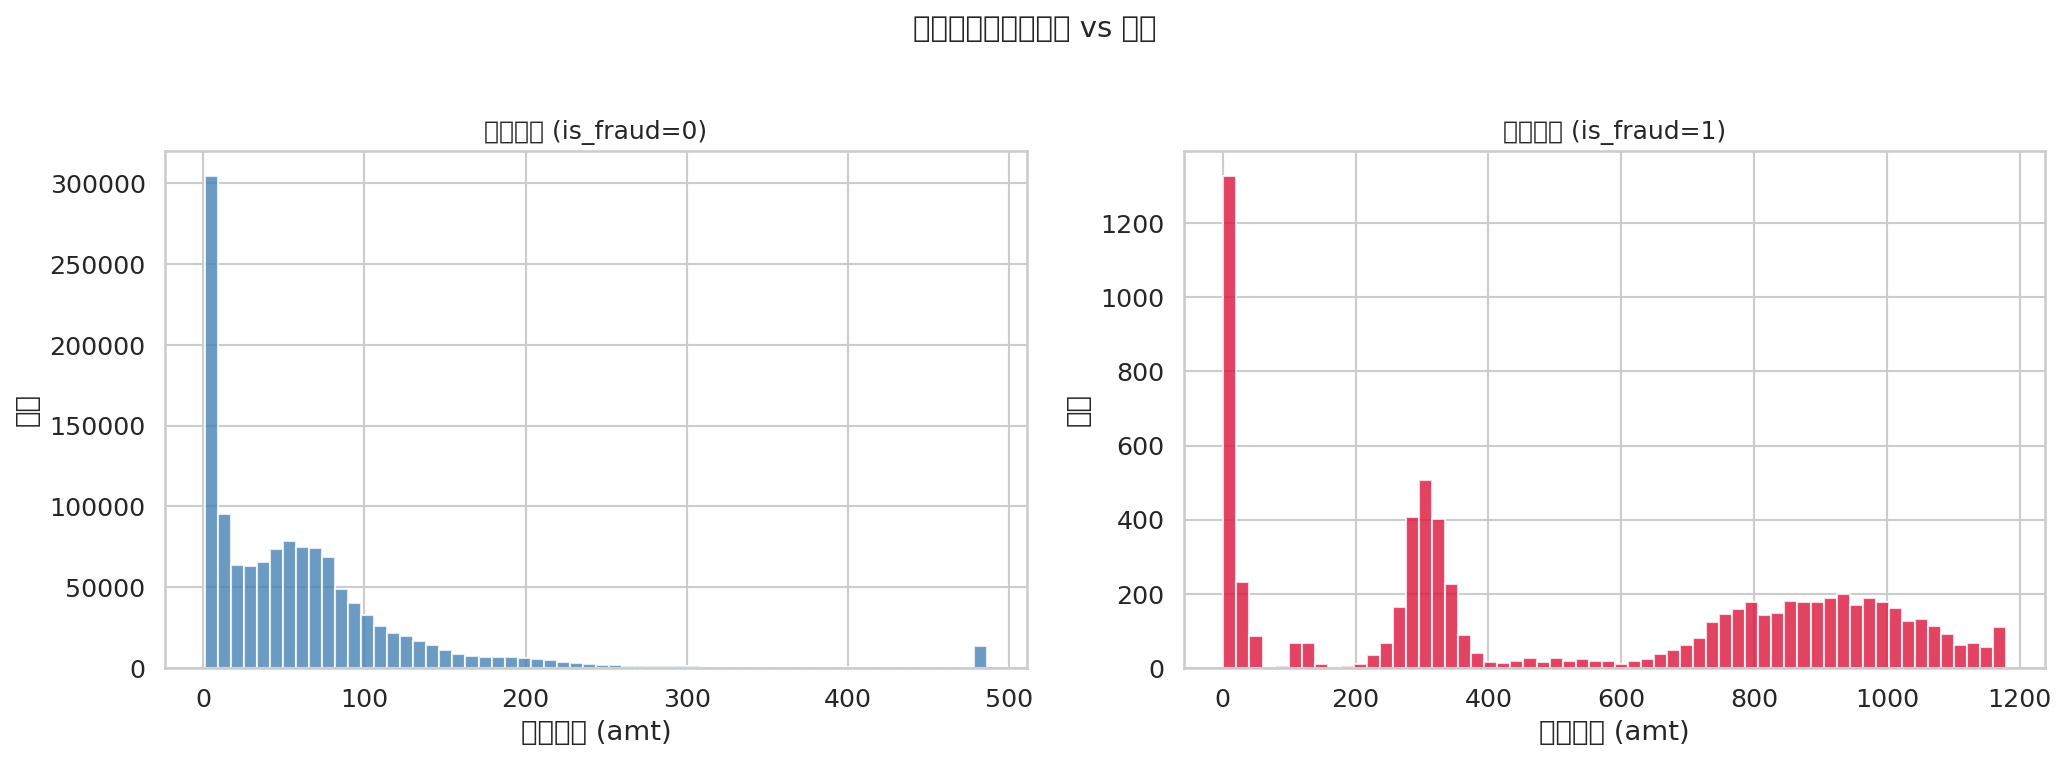
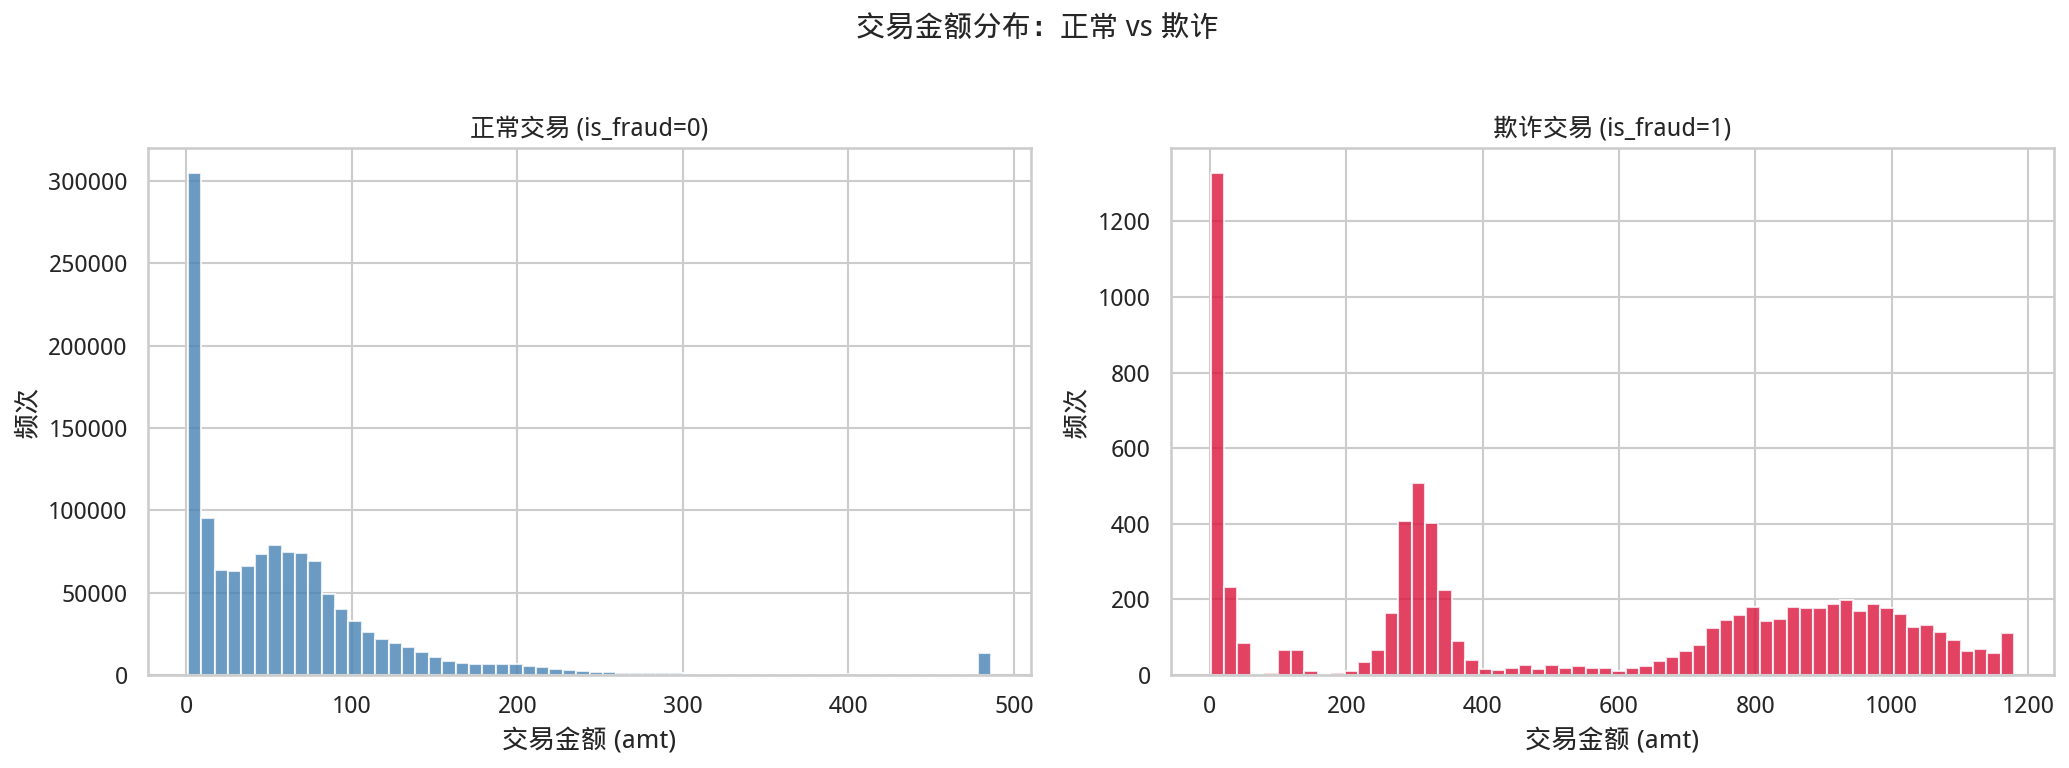
Fix Chinese font rendering in all chart figures
- Add scripts/plot_config.py: shared matplotlib config using WenQuanYi Micro Hei
- Update all 3 scripts to import plot_config before plt/sns
- Regenerate all report figures with correct Chinese text

diff --git a/scripts/plot_config.py b/scripts/plot_config.py
@@ -1,0 +1,33 @@
+"""
+Shared matplotlib/seaborn configuration with Chinese font support.
+
+Usage:
+    import plot_config  # import before any plt/sns calls
+"""
+
+import matplotlib
+matplotlib.use("Agg")
+
+import matplotlib.pyplot as plt
+import matplotlib.font_manager as fm
+
+_CN_FONT = None
+for candidate in ["WenQuanYi Micro Hei", "Droid Sans Fallback",
+                   "Noto Sans CJK SC", "SimHei", "Source Han Sans SC"]:
+    if any(f.name == candidate for f in fm.fontManager.ttflist):
+        _CN_FONT = candidate
+        break
+
+if _CN_FONT:
+    plt.rcParams.update({
+        "font.sans-serif": [_CN_FONT, "DejaVu Sans", "Arial"],
+        "axes.unicode_minus": False,
+    })
+
+import seaborn as sns
+sns.set_theme(style="whitegrid", font_scale=1.05, rc={
+    "font.sans-serif": [_CN_FONT, "DejaVu Sans", "Arial"] if _CN_FONT else ["DejaVu Sans"],
+    "axes.unicode_minus": False,
+})
+
+plt.rcParams.update({"figure.max_open_warning": 0})

diff --git a/scripts/eda_fraud_train.py b/scripts/eda_fraud_train.py
@@ -17,8 +17,10 @@ import warnings
 from datetime import datetime
 from textwrap import dedent
 
-import matplotlib
-matplotlib.use("Agg")
+import sys, os
+sys.path.insert(0, os.path.dirname(__file__))
+import plot_config  # Chinese font support — must be before plt/sns
+
 import matplotlib.pyplot as plt
 import matplotlib.gridspec as gridspec
 import seaborn as sns
@@ -29,8 +31,6 @@ from scipy.cluster.hierarchy import linkage, dendrogram
 from scipy.spatial.distance import squareform
 
 warnings.filterwarnings("ignore")
-sns.set_theme(style="whitegrid", font_scale=1.1)
-plt.rcParams.update({"figure.max_open_warning": 0})
 
 # ---------------------------------------------------------------------------
 # Paths

diff --git a/scripts/prepare_dataset.py b/scripts/prepare_dataset.py
@@ -14,8 +14,10 @@ import os, sys, warnings, json
 from datetime import datetime
 from textwrap import dedent
 
-import matplotlib
-matplotlib.use("Agg")
+import sys
+sys.path.insert(0, os.path.dirname(__file__))
+import plot_config  # Chinese font support — must be before plt/sns
+
 import matplotlib.pyplot as plt
 import seaborn as sns
 import numpy as np
@@ -27,7 +29,6 @@ from sklearn.feature_selection import mutual_info_classif
 from imblearn.over_sampling import SMOTE
 
 warnings.filterwarnings("ignore")
-sns.set_theme(style="whitegrid", font_scale=1.05)
 
 # ---------------------------------------------------------------------------
 # Paths

diff --git a/scripts/train_models.py b/scripts/train_models.py
@@ -10,8 +10,10 @@ Approach:
 
 import os, time, warnings, pickle, json
 from datetime import datetime
-import matplotlib
-matplotlib.use("Agg")
+import sys
+sys.path.insert(0, os.path.dirname(__file__))
+import plot_config  # Chinese font support — must be before plt/sns
+
 import matplotlib.pyplot as plt
 import seaborn as sns
 import numpy as np
@@ -29,7 +31,6 @@ import lightgbm as lgb
 import xgboost as xgb
 
 warnings.filterwarnings("ignore")
-sns.set_theme(style="whitegrid", font_scale=1.05)
 
 ROOT = os.path.join(os.path.dirname(__file__), "..")
 DATA_DIR = os.path.join(ROOT, "data", "processed")

diff --git a/reports/modeling_report.md b/reports/modeling_report.md
@@ -1,6 +1,6 @@
 # 建模报告 — 信用卡欺诈检测
 
-> 生成时间: 2026-03-11 07:25:34
+> 生成时间: 2026-03-13 01:44:27
 ---
 
 ## 1. 建模策略
@@ -19,13 +19,13 @@
 
 |   AUC-ROC |   AUC-PR |     F1 |   Precision |   Recall |   Accuracy | model                  |   time_s |   val_auc_pr |   best_iters |
 |----------:|---------:|-------:|------------:|---------:|-----------:|:-----------------------|---------:|-------------:|-------------:|
-|    0.9979 |   0.9086 | 0.8398 |      0.9382 |   0.7601 |     0.9983 | LightGBM (tuned+SMOTE) |     46.4 |     nan      |         1000 |
-|    0.9972 |   0.8945 | 0.8252 |      0.8669 |   0.7874 |     0.998  | LightGBM (tuned)       |     31.7 |       0.9827 |         1000 |
-|    0.9974 |   0.8864 | 0.6657 |      0.5285 |   0.8992 |     0.9946 | XGBoost                |      5   |     nan      |          nan |
-|    0.9967 |   0.8825 | 0.7813 |      0.7404 |   0.827  |     0.9973 | XGBoost (tuned)        |     46.8 |       0.9848 |          999 |
-|    0.9963 |   0.8696 | 0.4993 |      0.3386 |   0.9506 |     0.9887 | Random Forest          |     52.3 |     nan      |          nan |
-|    0.9423 |   0.2619 | 0.0684 |      0.0356 |   0.8628 |     0.8607 | Logistic Regression    |      9.8 |     nan      |          nan |
-|    0.9216 |   0.064  | 0.1229 |      0.0659 |   0.9103 |     0.923  | LightGBM               |      5.7 |     nan      |          nan |
+|    0.9979 |   0.9086 | 0.8398 |      0.9382 |   0.7601 |     0.9983 | LightGBM (tuned+SMOTE) |     50.8 |     nan      |         1000 |
+|    0.9972 |   0.8945 | 0.8252 |      0.8669 |   0.7874 |     0.998  | LightGBM (tuned)       |     39.3 |       0.9827 |         1000 |
+|    0.9974 |   0.8864 | 0.6657 |      0.5285 |   0.8992 |     0.9946 | XGBoost                |      5.6 |     nan      |          nan |
+|    0.9967 |   0.8825 | 0.7813 |      0.7404 |   0.827  |     0.9973 | XGBoost (tuned)        |     51.7 |       0.9848 |          999 |
+|    0.9963 |   0.8696 | 0.4993 |      0.3386 |   0.9506 |     0.9887 | Random Forest          |     53.5 |     nan      |          nan |
+|    0.9423 |   0.2619 | 0.0684 |      0.0356 |   0.8628 |     0.8607 | Logistic Regression    |      9.3 |     nan      |          nan |
+|    0.8533 |   0.0308 | 0.0671 |      0.035  |   0.8427 |     0.8611 | LightGBM               |      7.3 |     nan      |          nan |
 
 ## 3. 超参数调优
 
@@ -118,8 +118,8 @@ weighted avg       1.00      1.00      1.00    259335
 | 12 | `hour_sin` | 5370.0000 |
 | 13 | `state_freq` | 5305.0000 |
 | 14 | `city_pop_log` | 5174.0000 |
-| 15 | `category_freq` | 5173.0000 |
-| 16 | `category_enc` | 5088.0000 |
+| 15 | `category_freq` | 5174.0000 |
+| 16 | `category_enc` | 5087.0000 |
 | 17 | `hour_cos` | 3808.0000 |
 | 18 | `dow_sin` | 2703.0000 |
 | 19 | `dow_cos` | 2349.0000 |

diff --git a/reports/fraudTrain_eda_report.md b/reports/fraudTrain_eda_report.md
@@ -1,6 +1,6 @@
 # fraudTrain.csv 探索性数据分析 (EDA) 报告
 
-> 生成时间: 2026-03-11 03:11:57
+> 生成时间: 2026-03-13 01:36:49
 
 ---
 

diff --git a/reports/data_preparation_report.md b/reports/data_preparation_report.md
@@ -1,6 +1,6 @@
 # 数据准备与特征工程报告
 
-> 生成时间: 2026-03-11 03:23:07
+> 生成时间: 2026-03-13 01:39:53
 
 ---
 
